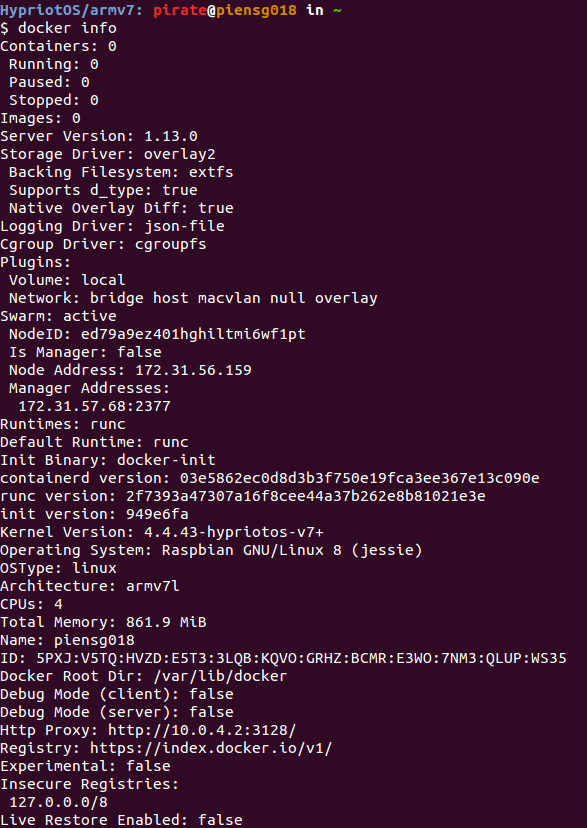
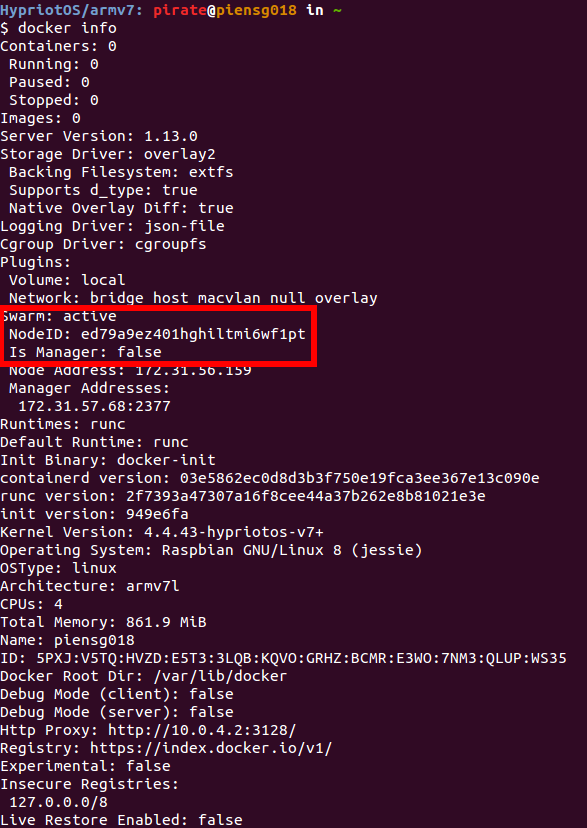
tutorial for docker swarm

Changed region(s): [[0.0, 0.3623, 0.552, 0.4529]]

diff --git a/Swarm/images/README.md b/Swarm/images/README.md
@@ -1,0 +1,40 @@
+# Swarm tutorial
+
+After a swarm initialisation, we can see :
+![docker info ](03-docker_info.png)
+
+This is our manager !
+
+Then, we have to generate the token to join our swarm.
+- generate token as manager
+![docker_swarm_manager_token](04-docker_swarm_manager_token.png)
+
+- generate token as worker
+![docker_swarm_worker](05-docker_swarm_worker.png)
+
+Once we have the token, we could add a node by joining the swarm :
+![join a swarm](06-joinASwarmAsWorker.png)
+
+Now, we can see our new node is well a worker (because it is not a manager) :
+![docker info ](07-infoWorkerSwarm.png)
+
+Here is the list of all the nodes. We can see our manager (piensg009) and the worker we added (piensg018) :
+![docker nodes ](08-docker_node_ls.png)
+> This information is accessible from manager only.
+Exemple from a worker : ![docker nodes access denied](09-nodelsSwarmNotAccess.png)
+
+Then we can create a new service on our swarm :
+![docker create service ](10-docker_service_create.png)
+
+and check which services are running :
+![docker service ls ](11-docker_service_ls.png)
+
+To read more details about this service, we can inspect it :
+![docker service inspect ](12-docker_service_inspect.png)
+
+We can also see on which node this service is running :
+![docker service ps ](13-docker_service_ps.png)
+
+If we start a webserver (port 80) on the swarm, we can access to it on the browser, like this [httpd docker image](https://github.com/hypriot/rpi-busybox-httpd) :
+
+![docker webservice ](14-httpd-swarm.png)
